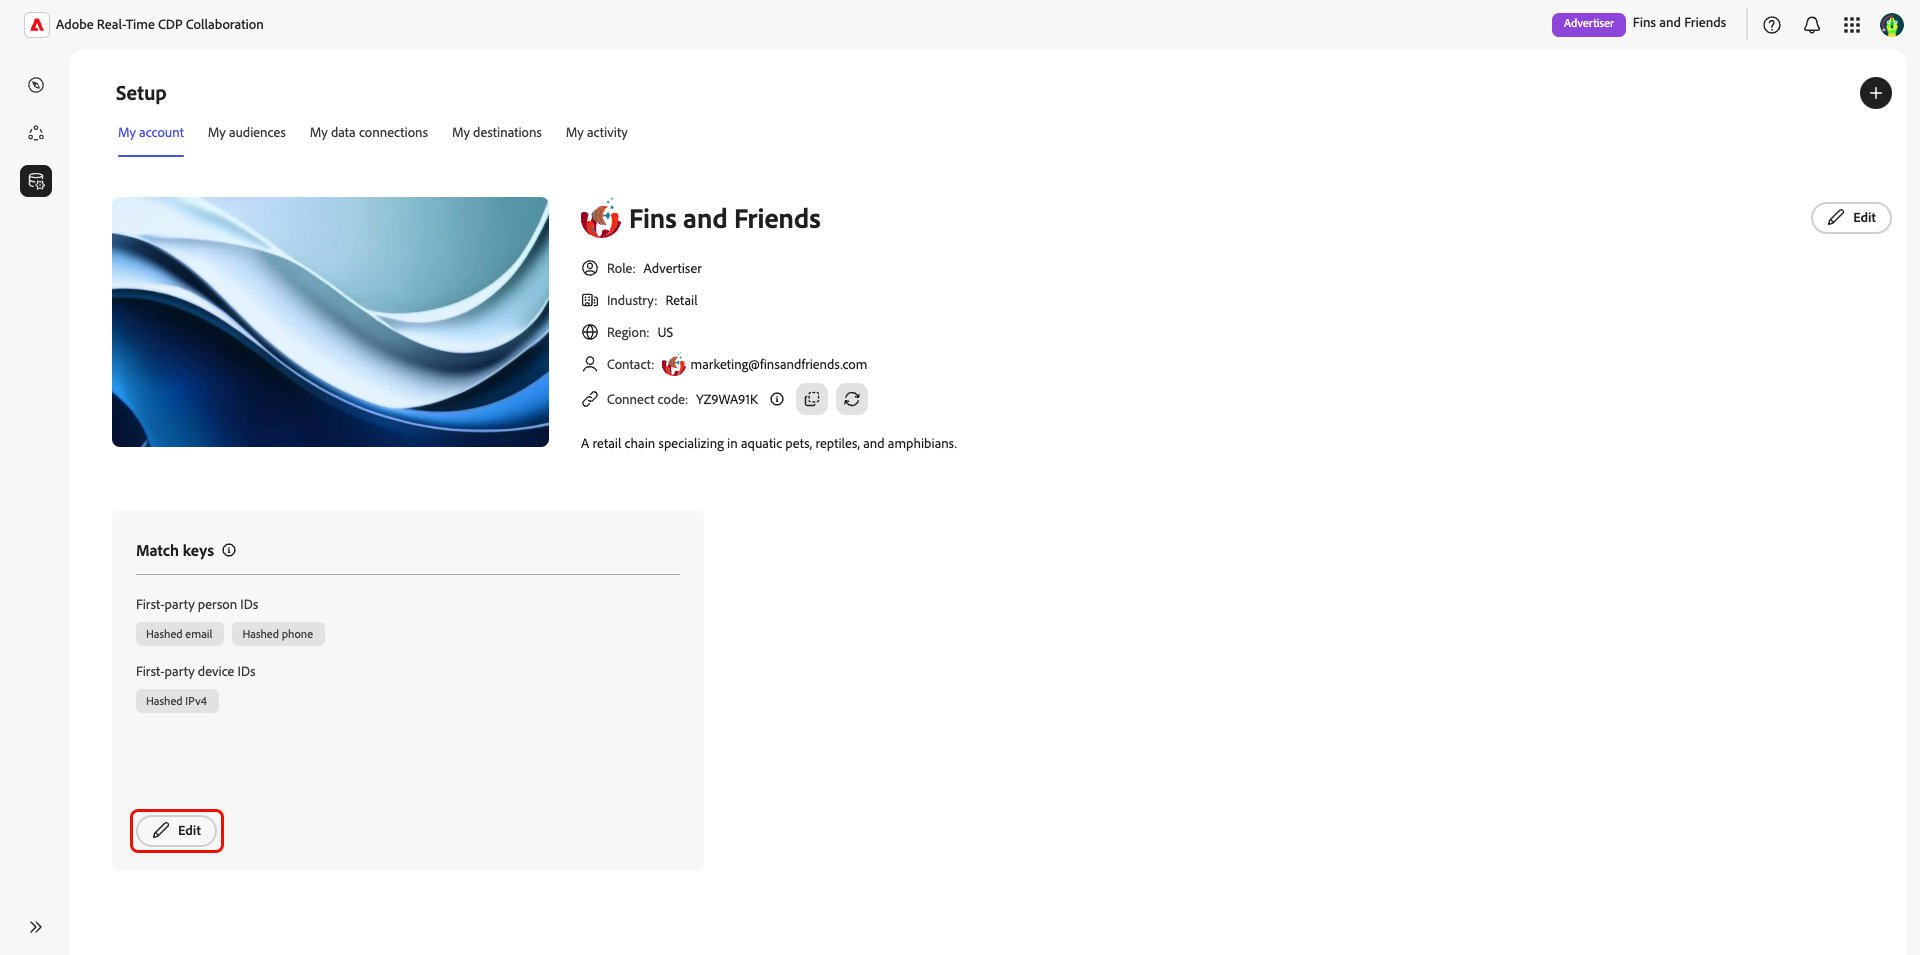
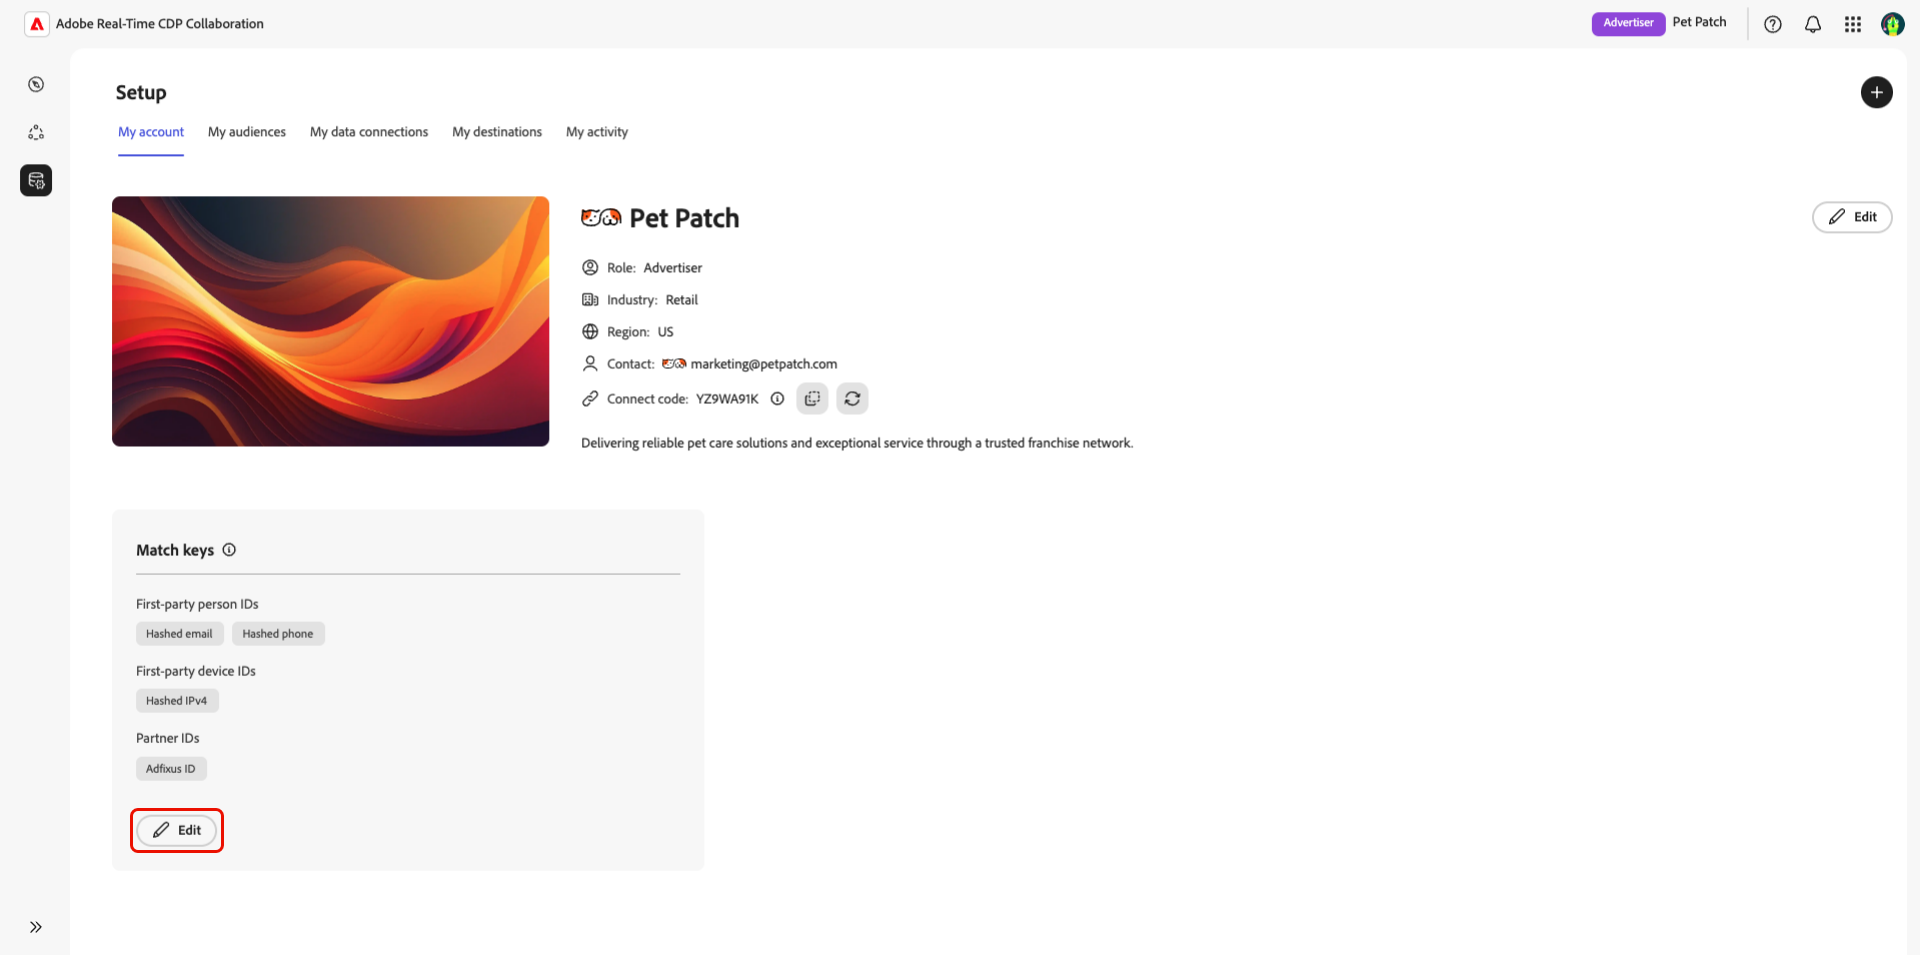
adfixus settings

diff --git a/help/guide/setup/onboard-account.md b/help/guide/setup/onboard-account.md
@@ -72,6 +72,8 @@ To begin configuring your account, you must first set up the account details. Th
 >title="Supported partner IDs"
 >abstract="Partner IDs are identifiers provided by external partners for audience reconciliation. Partner IDs are not directly connected to an individual profile."
 
+![Supported match keys.](/help/assets/setup/manage-account/match-keys.png){zoomable="yes"}
+
 >[!IMPORTANT]
 >
 >The match keys that you select during the account setup will determine the available match keys within your connections. While you can [remove unwanted match keys](../connect/establishing-connections.md#connection-settings) during the connection setup, match keys cannot be added after a connection has been established. It is important that you select **all** match keys that you plan to use in future campaigns during the account setup.
@@ -91,7 +93,7 @@ Collaboration supports three types of match keys: first-party people IDs, first-
 
 ##### First-party people IDs
 
-First-party people IDs are directly connected to an individual profile. Currently supported IDs include:
+First-party people IDs are directly connected to an individual profile. Currently supported IDs are:
 
 * **[!UICONTROL Hashed email]**
 * **[!UICONTROL Hashed phone]**
@@ -101,13 +103,23 @@ First-party people IDs are directly connected to an individual profile. Currentl
 
 ##### First-party device IDs
 
-First-party device IDs are identifiers connected to a specific device. Currently supported IDs include:
+First-party device IDs are identifiers connected to a specific device. Currently supported IDs are:
 
 * **[!UICONTROL Hashed IPv4]**: Hashed IPv4 addresses
 
-<!-- ##### Partner IDs
+##### Partner IDs
 
-Partner IDs are identifiers provided by external partners for audience reconciliation. These include: -->
+Partner IDs are identifiers provided by external partners for audience reconciliation. Currently supported IDs are:
+
+* **[!UICONTROL Adfixus ID]**
+
+>[!NOTE]
+>
+>Adobe's integration with [!DNL Adfixus] maps the unique [!UICONTROL Adfixus IDs] for each account to a common Adobe-encoded format. These mappings are used to identify overlaps between collaborators. When activating audiences using **[!UICONTROL Adfixus ID]**, the original IDs are used. The Adobe-encoded format never leaves Collaboration.
+
+When selecting **[!UICONTROL Adfixus ID]**, you will need to provide the corresponding ID from your external partner in the **[!UICONTROL Account credentials]** section. This option will only be available *after* toggling on **[!UICONTROL Adfixus ID]**. Enter your Adfixus ID into the **[!UICONTROL Account ID]** field, being sure to double check the value for accuracy.
+
+![The Match keys dialog with Adfixus ID toggled on and the Account credentials section highlighted.](/help/assets/setup/manage-account/adfixus-settings.png){zoomable="yes"}
 
 After you've selected all desired match keys, select **[!UICONTROL Complete]** to finish the account setup workflow.
 
@@ -141,7 +153,11 @@ Select **[!UICONTROL Edit]** in the **[!UICONTROL Match keys]** section.
 
 ![The Setup workspace with the Edit option highlighted within the account's Match keys section.](/help/assets/setup/manage-account/edit-match-keys.png){zoomable="yes"}
 
-The **[!UICONTROL Match keys]** dialog appears. Toggle on and off any match keys to update your selections and then select **[!UICONTROL Save]** to confirm the changes.
+The **[!UICONTROL Match keys]** dialog appears. Toggle on and off any match keys, or update your **[!UICONTROL Account ID]** for your [!UICONTROL Adfixus ID's],and then select **[!UICONTROL Save]** to confirm the changes.
+
+>[!IMPORTANT]
+>
+>Changing your [!UICONTROL Adfixus ID] will not trigger a [data sketch](../glossary.md#sketches) refresh for your existing data connections using the match key. Once your data has been sketched, any changes to your [!UICONTROL Adfixus ID] will not be reflected until your next audience refresh following your [data connection schedule](./manage-data-connection.md#scheduling) settings. If you require changes before your next refresh, you can delete and recreate your data connection.
 
 ![The Match keys dialog with the Save option highlighted.](/help/assets/setup/manage-account/match-key-dialog.png){zoomable="yes"}
 
